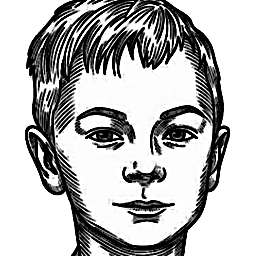
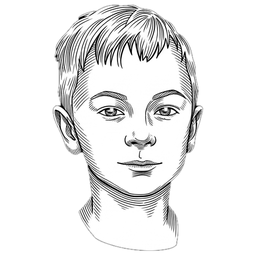
TE-73: Kinder-Avatare aus neuer Vorlage, Positiv-Zeichnung im weißen Kreis, Version 2.67.3

diff --git a/src/components/ChildAvatar.tsx b/src/components/ChildAvatar.tsx
@@ -31,7 +31,7 @@ export default function ChildAvatar({ child, size = 28 }: Props) {
       <Image
         source={src}
         accessibilityLabel={child.name}
-        // TE-73: PNGs sind freigestellte Köpfe (Umgebung transparent), ohne Farbring.
+        // TE-73: Positiv-Zeichnung auf weißem Grund, rund beschnitten = weißer Kreis, ohne Farbring.
         style={circle}
       />
     );
